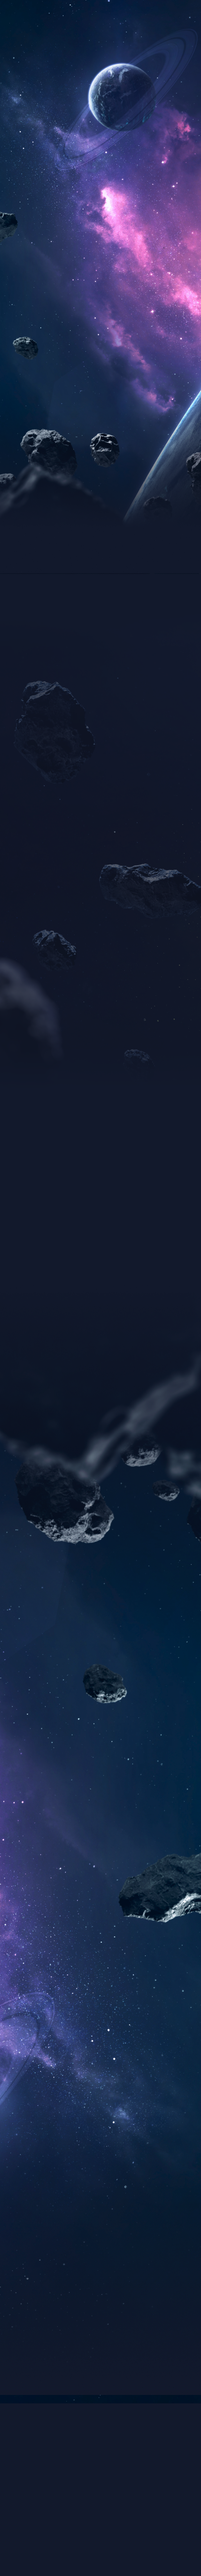
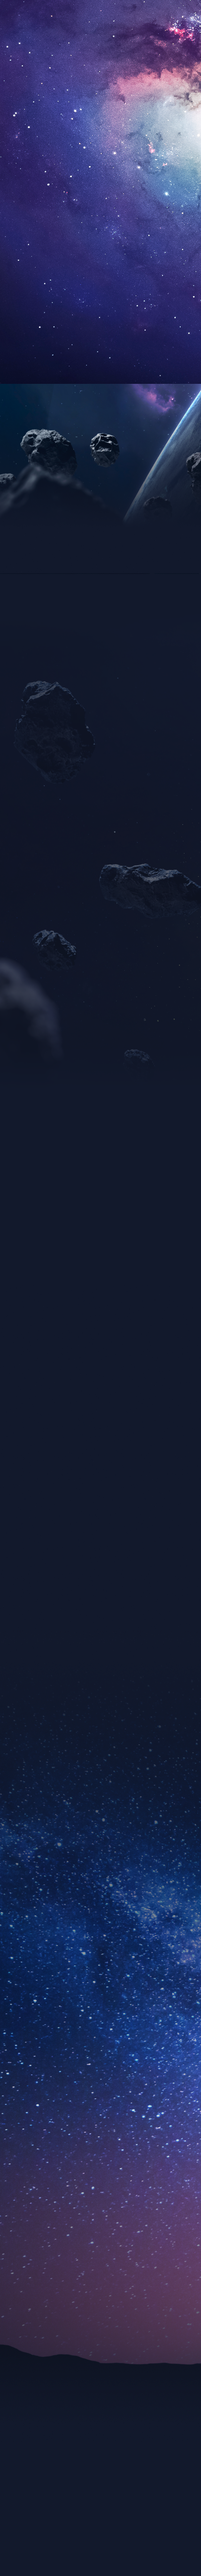
chang backgrond

diff --git a/components/Navbar/style.tsx b/components/Navbar/style.tsx
@@ -21,7 +21,7 @@ export const containerNavbarStyle: ThemeUIStyleObject = {
   height: ["100%", , , "auto"],
   py: ["20%", , , 0],
   background: [
-    "url(/assets/images/bg-mb.png),linear-gradient(0deg, rgba(18,25,44,0) 0%, rgba(18,25,44,1) 100%)",
+    "linear-gradient(180deg, #12192C 0%, rgba(18, 25, 44, 0) 100%),url(/assets/images/bg-mb.png)",
     ,
     ,
     "linear-gradient(0deg, rgba(18,25,44,0) 0%, rgba(18,25,44,1) 100%)"

diff --git a/theme/theme.ts b/theme/theme.ts
@@ -263,7 +263,7 @@ export const theme = makeTheme({
       ],
       backgroundPosition: "top,center",
       backgroundRepeat: "no-repeat",
-      backgroundSize: "cover",
+      backgroundSize: ["cover"],
       margin: 0,
       height: "100%",
       // WebkitFontSmoothing: "antialiased",

diff --git a/components/Story/style.tsx b/components/Story/style.tsx
@@ -12,6 +12,7 @@ export const containerStoryStyle: ThemeUIStyleObject = {
   maxWidth: 1140,
   pt: 100,
   px: [36, null, null],
+  background: "url(/assets/images/bg-story.png) no-repeat cover",
   "> img": { width: ["100%", null, null, "80%"], mt: [300, , , 0] }
 };
 
